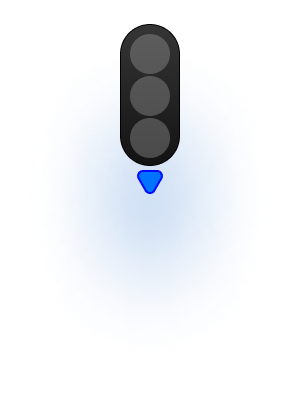
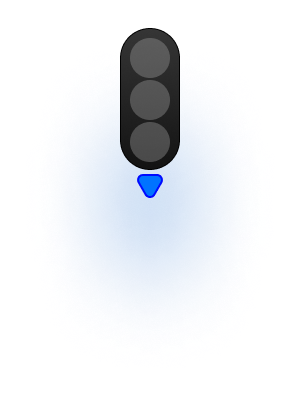
Fix traffic light clickable (#389)

diff --git a/lib/ride/views/main.dart b/lib/ride/views/main.dart
@@ -1,5 +1,3 @@
-import 'dart:io';
-
 import 'package:flutter/material.dart';
 import 'package:flutter/scheduler.dart';
 import 'package:flutter/services.dart';
@@ -198,67 +196,62 @@ class RideViewState extends State<RideView> {
       onPopInvoked: (type) async => false,
       child: Scaffold(
         body: ScreenTrackingView(
-          child: SafeArea(
-            top: false,
-            bottom: Platform.isAndroid ? true : false,
-            child: Stack(
-              alignment: Alignment.bottomCenter,
-              clipBehavior: Clip.none,
-              children: [
-                RideMapView(
-                  onMapMoved: onMapMoved,
-                  cameraFollowUserLocation: cameraFollowsUserLocation,
-                ),
-                if (settings.saveBatteryModeEnabled)
-                  Positioned(
-                    top: MediaQuery.of(context).padding.top + 15,
-                    left: 10,
-                    child: const Image(
-                      width: 100,
-                      image: AssetImage('assets/images/mapbox-logo-transparent.png'),
-                    ),
-                  ),
-                if (settings.saveBatteryModeEnabled)
-                  Positioned(
-                    top: MediaQuery.of(context).padding.top + 5,
-                    right: 10,
-                    child: IconButton(
-                      onPressed: () => MapboxAttribution.showAttribution(context),
-                      icon: const Icon(
-                        Icons.info_outline_rounded,
-                        size: 25,
-                        color: CI.radkulturRed,
-                      ),
-                    ),
-                  ),
+          child: Stack(
+            alignment: Alignment.bottomCenter,
+            clipBehavior: Clip.none,
+            children: [
+              RideMapView(
+                onMapMoved: onMapMoved,
+                cameraFollowUserLocation: cameraFollowsUserLocation,
+              ),
+              if (settings.saveBatteryModeEnabled)
                 Positioned(
-                  right: positionSpeedometerRight,
-                  child: RideSpeedometerView(puckHeight: heightToPuckBoundingBox),
+                  top: MediaQuery.of(context).padding.top + 15,
+                  left: 10,
+                  child: const Image(
+                    width: 100,
+                    image: AssetImage('assets/images/mapbox-logo-transparent.png'),
+                  ),
                 ),
-                const DatastreamView(),
-                const FinishRideButton(),
-                if (!cameraFollowsUserLocation)
-                  SafeArea(
-                    bottom: true,
-                    child: Padding(
-                      padding: paddingCenterButton,
-                      child: BigButtonPrimary(
-                        label: "Zentrieren",
-                        elevation: 20,
-                        onPressed: () {
-                          final ride = getIt<Ride>();
-                          if (ride.userSelectedSG != null) ride.unselectSG();
-                          setState(() {
-                            cameraFollowsUserLocation = true;
-                          });
-                        },
-                        boxConstraints:
-                            BoxConstraints(minWidth: MediaQuery.of(context).size.width * 0.3, minHeight: 50),
-                      ),
+              if (settings.saveBatteryModeEnabled)
+                Positioned(
+                  top: MediaQuery.of(context).padding.top + 5,
+                  right: 10,
+                  child: IconButton(
+                    onPressed: () => MapboxAttribution.showAttribution(context),
+                    icon: const Icon(
+                      Icons.info_outline_rounded,
+                      size: 25,
+                      color: CI.radkulturRed,
                     ),
                   ),
-              ],
-            ),
+                ),
+              Positioned(
+                right: positionSpeedometerRight,
+                child: RideSpeedometerView(puckHeight: heightToPuckBoundingBox),
+              ),
+              const DatastreamView(),
+              const FinishRideButton(),
+              if (!cameraFollowsUserLocation)
+                SafeArea(
+                  bottom: true,
+                  child: Padding(
+                    padding: paddingCenterButton,
+                    child: BigButtonPrimary(
+                      label: "Zentrieren",
+                      elevation: 20,
+                      onPressed: () {
+                        final ride = getIt<Ride>();
+                        if (ride.userSelectedSG != null) ride.unselectSG();
+                        setState(() {
+                          cameraFollowsUserLocation = true;
+                        });
+                      },
+                      boxConstraints: BoxConstraints(minWidth: MediaQuery.of(context).size.width * 0.3, minHeight: 50),
+                    ),
+                  ),
+                ),
+            ],
           ),
         ),
       ),

diff --git a/lib/ride/views/map.dart b/lib/ride/views/map.dart
@@ -404,7 +404,7 @@ class RideMapViewState extends State<RideMapView> {
     );
     index = await getIndex(TrafficLightsLayer.layerId);
     if (!mounted) return;
-    await TrafficLightsLayerClickable(isDark, hideBehindPosition: true).install(
+    await TrafficLightsLayerClickable().install(
       mapController!,
       iconSize: ppi / 5,
       at: index,
@@ -446,13 +446,14 @@ class RideMapViewState extends State<RideMapView> {
     );
 
     // Calculate the correct screen coordinates since the map got scaled.
-    if (settings.saveBatteryModeEnabled) {
+    // Note: only necessary for IOS. Potential point of failure in future.
+    if (settings.saveBatteryModeEnabled && Platform.isIOS) {
       if (!mounted) return;
       final frame = MediaQuery.of(context);
 
       // Get the scaled width and height.
-      double scaleWidth = frame.size.width / settings.scalingFactor;
-      double scaleHeight = frame.size.height / settings.scalingFactor;
+      double scaleWidth = frame.size.width / Settings.scalingFactor;
+      double scaleHeight = frame.size.height / Settings.scalingFactor;
 
       // Normalize the screen coordinate to the scaled area.
       double normalizedX = actualScreenCoordinate.x - (frame.size.width - scaleWidth) / 2;
@@ -467,6 +468,8 @@ class RideMapViewState extends State<RideMapView> {
       actualScreenCoordinate.y = frame.size.height * ratioY;
     }
 
+    // Returns the Features for a given screen coordinate.
+    // Note: Android seems to consider the scale factor.
     final List<mapbox.QueriedFeature?> features = await mapController!.queryRenderedFeatures(
       mapbox.RenderedQueryGeometry(
         value: json.encode(actualScreenCoordinate.encode()),
@@ -504,26 +507,41 @@ class RideMapViewState extends State<RideMapView> {
           final orientation = MediaQuery.of(context).orientation;
           final mapbox.MbxEdgeInsets padding;
 
+          final isBatterySaveModeEnabled = getIt<Settings>().saveBatteryModeEnabled;
+          final deviceWidth = MediaQuery.of(context).size.width;
+          final deviceHeight = MediaQuery.of(context).size.height;
+          final pixelRatio = MediaQuery.of(context).devicePixelRatio;
+
+          // Get the scaled width and height.
+          double scaleWidth = deviceWidth * (pixelRatio / Settings.scalingFactor);
+          double scaleHeight = deviceHeight * (pixelRatio / Settings.scalingFactor);
+
           if (orientation == Orientation.portrait) {
-            padding = mapbox.MbxEdgeInsets(top: 0, left: 0, bottom: 200, right: 0);
+            // We need to consider the scale factor in battery save mode.
+            if (isBatterySaveModeEnabled) {
+              // Note: ios uses device-independent pixel units and therefore we need to consider the scale factor.
+              if (Platform.isIOS) {
+                padding = mapbox.MbxEdgeInsets(top: 0, left: 0, bottom: scaleHeight * 0.05, right: 0);
+              } else {
+                padding = mapbox.MbxEdgeInsets(top: 0, left: 0, bottom: deviceHeight * 0.05, right: 0);
+              }
+            } else {
+              padding = mapbox.MbxEdgeInsets(top: 0, left: 0, bottom: deviceHeight * 0.05, right: 0);
+            }
           } else {
             // Landscape-Mode: Set user-puk to the left and a little down
             // The padding must be different if battery save mode is enabled by user because the map is rendered differently
-            final isBatterySaveModeEnabled = getIt<Settings>().saveBatteryModeEnabled;
-            final deviceWidth = MediaQuery.of(context).size.width;
-            final deviceHeight = MediaQuery.of(context).size.height;
-            final pixelRatio = MediaQuery.of(context).devicePixelRatio;
+            // We need to consider the scale factor in battery save mode for ios.
             if (isBatterySaveModeEnabled) {
-              if (Platform.isAndroid) {
-                padding = mapbox.MbxEdgeInsets(
-                    top: deviceHeight * 0.45, left: 0, bottom: 200, right: deviceWidth * pixelRatio * 0.165);
+              // Note: ios uses device-independent pixel units and therefore we need to consider the scale factor.
+              if (Platform.isIOS) {
+                padding = mapbox.MbxEdgeInsets(top: scaleHeight * 0.05, left: 0, bottom: 0, right: scaleWidth * 0.5);
               } else {
-                padding = mapbox.MbxEdgeInsets(
-                    top: deviceHeight * 0.45, left: 0, bottom: 200, right: deviceWidth * pixelRatio * 0.42);
+                padding =
+                    mapbox.MbxEdgeInsets(top: deviceHeight * 0.05, left: 0, bottom: 0, right: deviceWidth * 0.175);
               }
             } else {
-              padding = mapbox.MbxEdgeInsets(
-                  top: deviceHeight * 0.45, left: 0, bottom: 200, right: deviceWidth * pixelRatio * 0.42);
+              padding = mapbox.MbxEdgeInsets(top: deviceHeight * 0.05, left: 0, bottom: 0, right: deviceWidth * 0.42);
             }
           }
 

diff --git a/lib/ride/views/finish_button.dart b/lib/ride/views/finish_button.dart
@@ -142,45 +142,41 @@ class FinishRideButtonState extends State<FinishRideButton> {
     final orientation = MediaQuery.of(context).orientation;
     final isLandscapeMode = orientation == Orientation.landscape;
 
-    return Stack(
-      children: [
-        Positioned(
-          top: 48, // Below the MapBox attribution.
-          // Button is on the right in portrait mode and on the left in landscape mode.
-          right: isLandscapeMode ? null : 0,
-          left: isLandscapeMode ? 0 : null,
-          child: SafeArea(
-            child: Tile(
-              onPressed: () => showAskForConfirmationDialog(context),
-              borderRadius: BorderRadius.only(
-                topLeft: const Radius.circular(24),
-                bottomLeft: const Radius.circular(24),
-                topRight: isLandscapeMode ? const Radius.circular(24) : const Radius.circular(0),
-                bottomRight: isLandscapeMode ? const Radius.circular(24) : const Radius.circular(0),
-              ),
-              padding: const EdgeInsets.all(4),
-              fill: Colors.black.withOpacity(0.4),
-              content: Padding(
-                padding: const EdgeInsets.only(left: 16, right: 16, top: 16, bottom: 16),
-                child: Column(
-                  children: [
-                    const Icon(
-                      Icons.flag_rounded,
-                      color: Colors.white,
-                    ),
-                    const SmallHSpace(),
-                    BoldSmall(
-                      text: "Ende",
-                      context: context,
-                      color: Colors.white,
-                    ),
-                  ],
+    return Positioned(
+      top: 48, // Below the MapBox attribution.
+      // Button is on the right in portrait mode and on the left in landscape mode.
+      right: isLandscapeMode ? null : 0,
+      left: isLandscapeMode ? 0 : null,
+      child: SafeArea(
+        child: Tile(
+          onPressed: () => showAskForConfirmationDialog(context),
+          borderRadius: BorderRadius.only(
+            topLeft: const Radius.circular(24),
+            bottomLeft: const Radius.circular(24),
+            topRight: isLandscapeMode ? const Radius.circular(24) : const Radius.circular(0),
+            bottomRight: isLandscapeMode ? const Radius.circular(24) : const Radius.circular(0),
+          ),
+          padding: const EdgeInsets.all(4),
+          fill: Colors.black.withOpacity(0.4),
+          content: Padding(
+            padding: const EdgeInsets.only(left: 16, right: 16, top: 16, bottom: 16),
+            child: Column(
+              children: [
+                const Icon(
+                  Icons.flag_rounded,
+                  color: Colors.white,
                 ),
-              ),
+                const SmallHSpace(),
+                BoldSmall(
+                  text: "Ende",
+                  context: context,
+                  color: Colors.white,
+                ),
+              ],
             ),
           ),
         ),
-      ],
+      ),
     );
   }
 }

diff --git a/lib/common/map/layers/sg_layers.dart b/lib/common/map/layers/sg_layers.dart
@@ -196,15 +196,12 @@ class TrafficLightsLayerClickable {
   /// The features to display.
   final List<dynamic> features = List.empty(growable: true);
 
-  TrafficLightsLayerClickable(bool isDark, {hideBehindPosition = false}) {
+  TrafficLightsLayerClickable() {
     final routing = getIt<Routing>();
-    final userPosSnap = getIt<Positioning>().snap;
     if (routing.selectedRoute == null) return;
     for (int i = 0; i < routing.selectedRoute!.signalGroups.length; i++) {
       final sg = routing.selectedRoute!.signalGroups[i];
-      final sgDistanceOnRoute = routing.selectedRoute!.signalGroupsDistancesOnRoute[i];
       // Clamp the value to not unnecessarily update the source.
-      final distanceToSgOnRoute = max(-5, min(0, sgDistanceOnRoute - (userPosSnap?.distanceOnRoute ?? 0)));
 
       features.add(
         {
@@ -216,9 +213,6 @@ class TrafficLightsLayerClickable {
           },
           "properties": {
             "id": sg.id,
-            "isDark": isDark,
-            "distanceToSgOnRoute": distanceToSgOnRoute,
-            "hideBehindPosition": hideBehindPosition,
           },
         },
       );
@@ -244,32 +238,11 @@ class TrafficLightsLayerClickable {
             id: layerId,
             iconSize: iconSize,
             iconAllowOverlap: true,
-            textAllowOverlap: true,
-            textIgnorePlacement: true,
-            iconOpacity: 0.4,
+            iconAnchor: mapbox.IconAnchor.BOTTOM,
+            iconOpacity: 1,
           ),
           mapbox.LayerPosition(at: at));
       await mapController.style.setStyleLayerProperty(layerId, 'icon-image', 'trafficlightclicklayer');
-      await mapController.style.setStyleLayerProperty(
-          layerId,
-          'icon-opacity',
-          json.encode(
-            showAfter(zoom: 16, opacity: [
-              "case",
-              ["get", "hideBehindPosition"],
-              [
-                "case",
-                [
-                  "<=",
-                  ["get", "distanceToCrossingOnRoute"],
-                  -5,
-                ],
-                0.4,
-                1
-              ],
-              1
-            ]),
-          ));
     }
   }
 

diff --git a/lib/common/map/symbols.dart b/lib/common/map/symbols.dart
@@ -16,7 +16,7 @@ class SymbolLoader {
     await add("trafficlightdisconnectedlight", "assets/images/trafficlights/disconnected-light.png", 400, 400);
     await add("trafficlightonlinedarknocheck", "assets/images/trafficlights/online-dark-no-check.png", 300, 400);
     await add("trafficlightonlinelightnocheck", "assets/images/trafficlights/online-light-no-check.png", 300, 400);
-    await add("trafficlightclicklayer", "assets/images/trafficlights/traffic-light-click-layer.png", 60, 400);
+    await add("trafficlightclicklayer", "assets/images/trafficlights/traffic-light-click-layer.png", 60, 176);
     await add("trafficlightonlinedark", "assets/images/trafficlights/online-dark.png", 400, 400);
     await add("trafficlightonlinelight", "assets/images/trafficlights/online-light.png", 400, 400);
     await add("trafficlightonlinegreendark", "assets/images/trafficlights/online-green-dark.png", 300, 400);

diff --git a/lib/common/map/view.dart b/lib/common/map/view.dart
@@ -109,7 +109,7 @@ class AppMapState extends State<AppMap> {
   Widget build(BuildContext context) {
     double devicePixelRatio = MediaQuery.of(context).devicePixelRatio;
     if (widget.saveBatteryModeEnabled) {
-      devicePixelRatio = devicePixelRatio / settings.scalingFactor;
+      devicePixelRatio = devicePixelRatio / Settings.scalingFactor;
     }
 
     final Widget map = mapbox.MapWidget(
@@ -155,7 +155,7 @@ class AppMapState extends State<AppMap> {
     // This results in the end in a lower resolution of the map and thus a lower GPU load and energy consumption.
     return widget.saveBatteryModeEnabled
         ? Transform.scale(
-            scale: settings.scalingFactor,
+            scale: Settings.scalingFactor,
             child: map,
           )
         : map;

diff --git a/lib/settings/services/settings.dart b/lib/settings/services/settings.dart
@@ -26,7 +26,8 @@ class Settings with ChangeNotifier {
 
   static final log = Logger("Settings");
 
-  final double scalingFactor = 2.5;
+  /// The scaling factor of the map for the battery save mode.
+  static const double scalingFactor = 2.5;
 
   /// Whether the performance overlay should be enabled.
   bool enablePerformanceOverlay;
